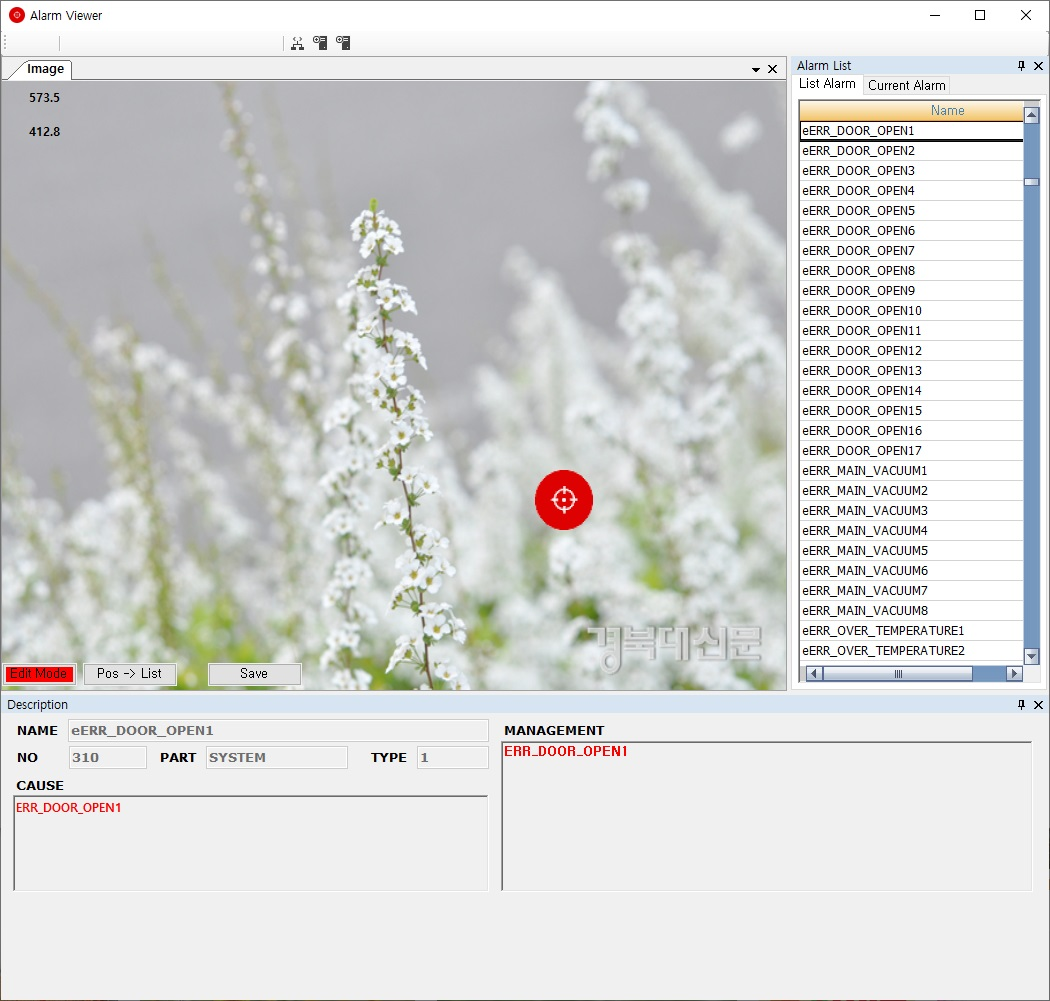
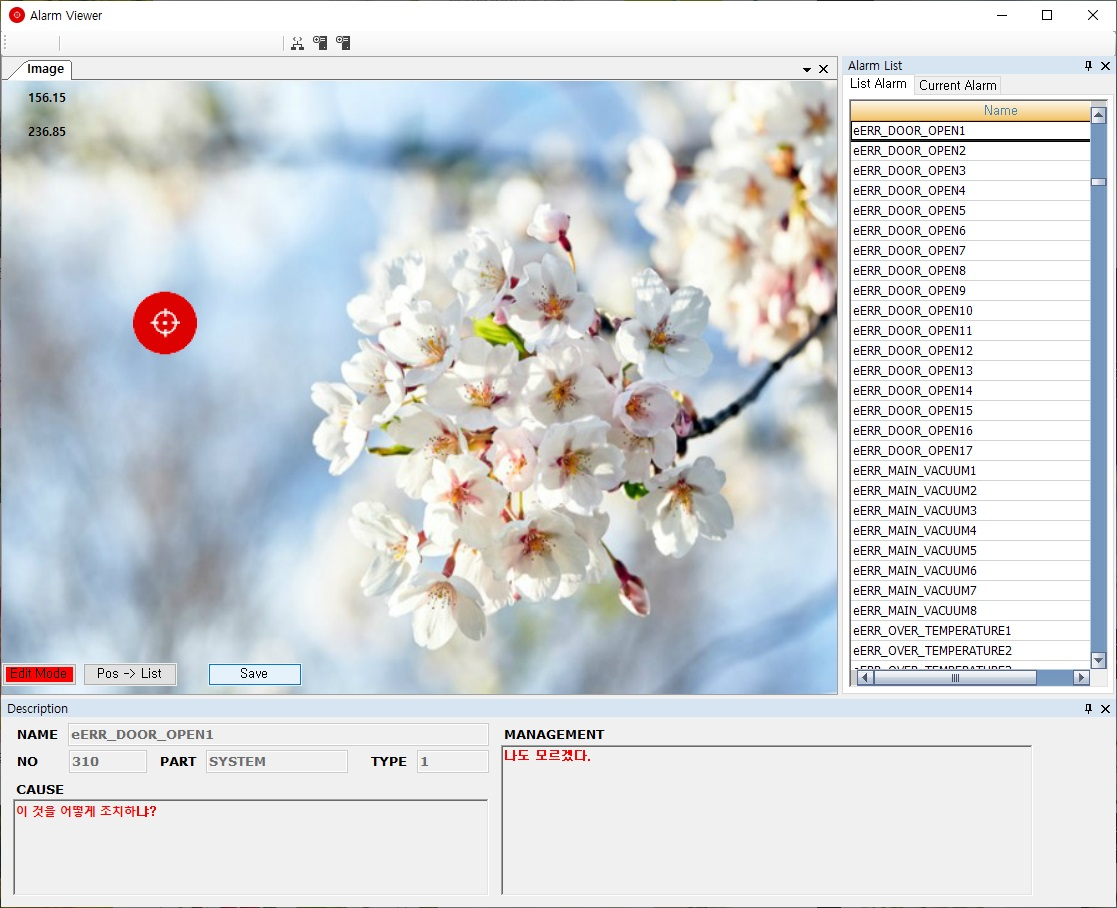
image update1

diff --git a/README.md b/README.md
@@ -67,7 +67,53 @@
 
 ### Alarm 발생 위치 Image Load(jpg) 및 Pointer
  * jpg File Load 만 가능 Alarm File Table의 Image Element 값에서 Image Load
- > ex) <Image>D:\XXXXX\Config\GUI\Image\XXXX.jpg</Image>
+ >
+    ```Xml
+    <Table>
+        <Name>eERR_DOOR_OPEN1</Name>
+        <NO>310</NO>
+        <CODE>2</CODE>
+        <PART>SYSTEM</PART>
+        <TYPE>1</TYPE>
+        <Message>ERR_DOOR_OPEN1</Message>
+        <Image>D:\MPSC\Config\GUI\Image\Flower1.jpg</Image>
+        <POS_X>156.15</POS_X>
+        <POS_Y>236.85</POS_Y>
+        <Cause>이 것을 어떻게 조치하냐?</Cause>
+        <Management>나도 모르겠다.</Management>
+      </Table>
+      <Table>
+        <Name>eERR_DOOR_OPEN2</Name>
+        <NO>311</NO>
+        <CODE>2</CODE>
+        <PART>SYSTEM</PART>
+        <TYPE>1</TYPE>
+        <Message>ERR_DOOR_OPEN2</Message>
+        <Image>D:\MPSC\Config\GUI\Image\Flower2.jpg</Image>
+        <POS_X>432.7</POS_X>
+        <POS_Y>221.6</POS_Y>
+        <Cause>怎么做</Cause>
+        <Management>我也不知道</Management>
+      </Table>
+      <Table>
+        <Name>eERR_DOOR_OPEN3</Name>
+        <NO>312</NO>
+        <CODE>2</CODE>
+        <PART>SYSTEM</PART>
+        <TYPE>1</TYPE>
+        <Message>ERR_DOOR_OPEN3</Message>
+        <Image>D:\MPSC\Config\GUI\Image\Flower3.jpg</Image>
+        <POS_X>595.95</POS_X>
+        <POS_Y>104.9</POS_Y>
+        <Cause>Làm thế nào tôi nên đối phó với điều này?</Cause>
+        <Management>Tôi cũng không biết.</Management>
+      </Table>
+
+    ```
+ >![title](https://github.com/EuphoriaLUV/AlarmInfoViewer/blob/master/Image/ImageLoad1.jpg "eERR_DOOR_OPEN1 Click")
+  ![title](https://github.com/EuphoriaLUV/AlarmInfoViewer/blob/master/Image/ImageLoad2.jpg "eERR_DOOR_OPEN2 Click")
+  ![title](https://github.com/EuphoriaLUV/AlarmInfoViewer/blob/master/Image/ImageLoad3.jpg "eERR_DOOR_OPEN3 Click")
+
 
  * Pointer 위치 등록 방법
     * Xml Direct 편집 : Alarm File의 POS_X, POS_Y Element 값을 직접 수정
